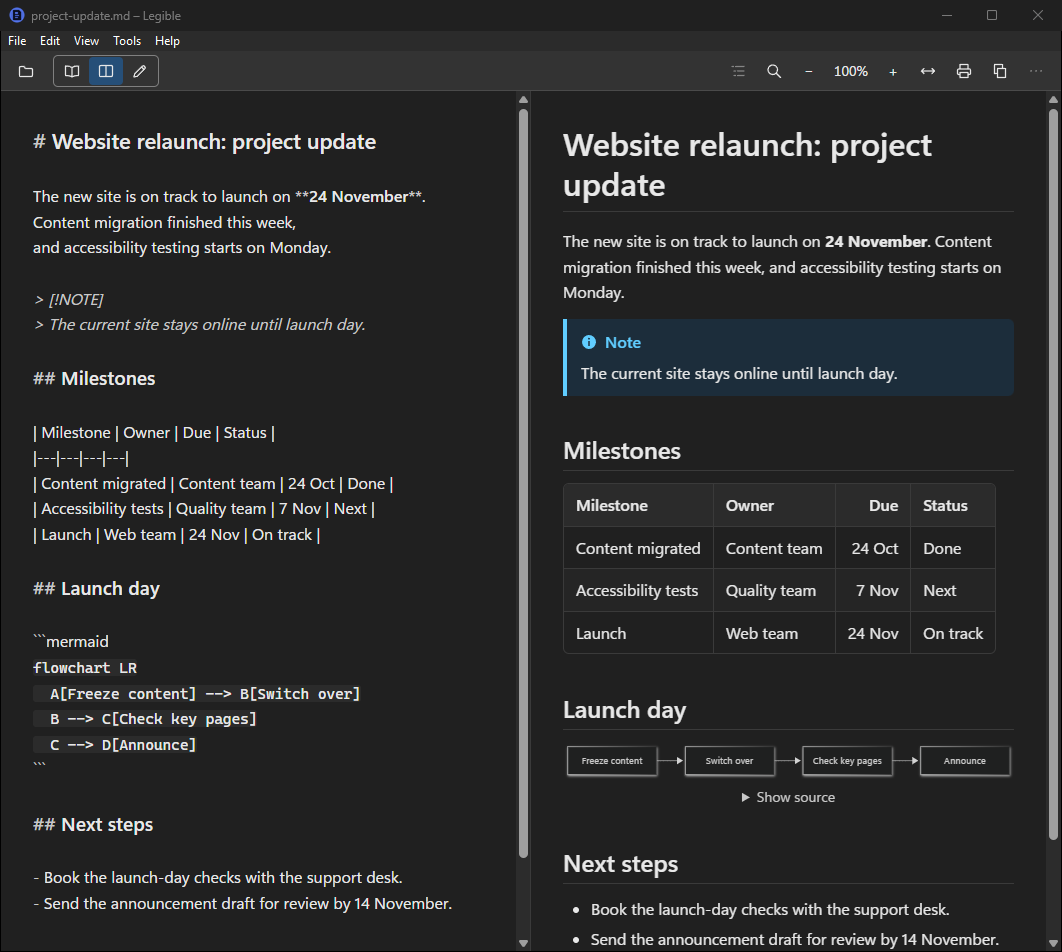
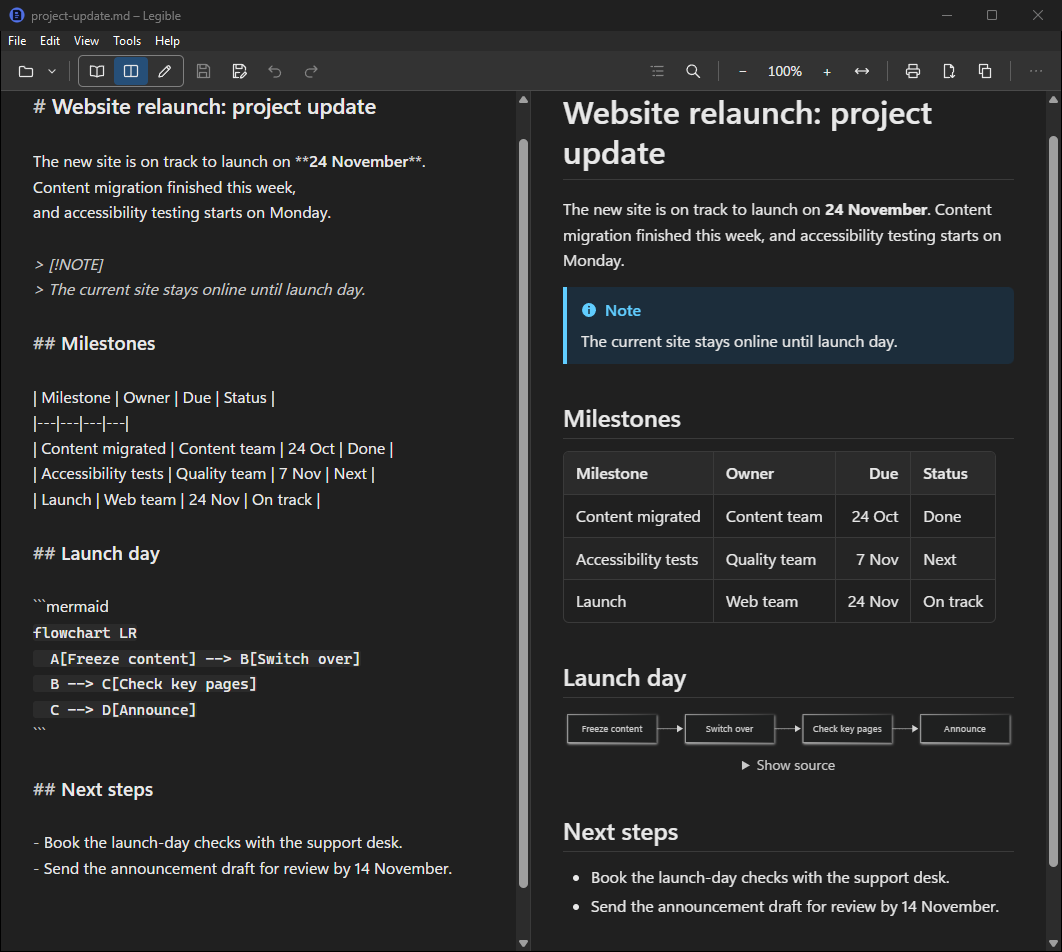
README screenshots: the finished toolbar, at Wide, the default
Retaken with readme-shots: Open's split button, Save and Save as, Undo and
Redo in Split, and the dividers between the strip's groups. The README's
"comfortable width" wording goes, to match Wide.

diff --git a/README.md b/README.md
@@ -14,9 +14,8 @@
 
 Notes, reports, meeting minutes and documentation are more and more often written in Markdown,
 the plain-text format behind GitHub, Teams and many AI tools. Opened in Notepad, a Markdown file
-is a wall of hashes and asterisks. Opened in Legible, it reads like a document: clear type at a
-comfortable width, proper headings, tables, lists, code and diagrams, in light or dark as Windows
-is.
+is a wall of hashes and asterisks. Opened in Legible, it reads like a document: clear type,
+proper headings, tables, lists, code and diagrams, in light or dark as Windows is.
 
 Double-click a `.md` file and it opens in its own window, at once. Copy it into an email, print
 it or save it as a PDF, and it still looks right. When it needs a change, edit it in the same
